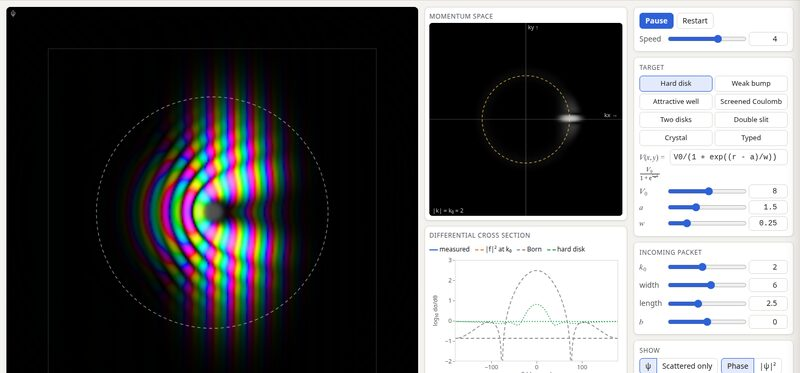
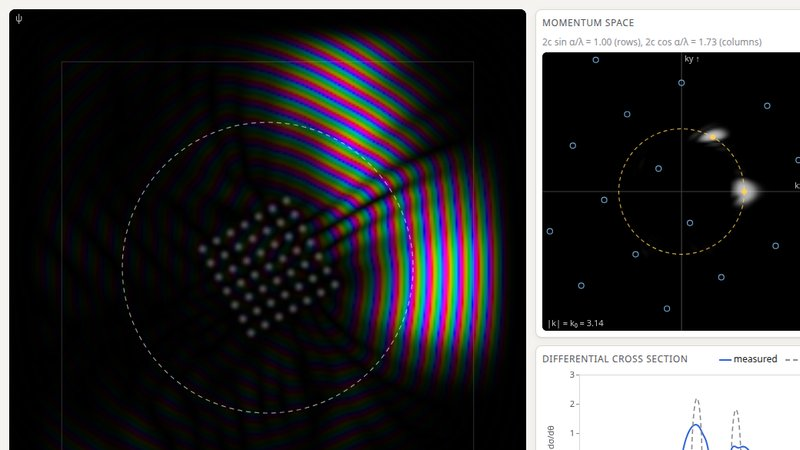
Landing page: 2D scattering's card shows Bragg reflection from the crystal
Claude-Session: https://claude.ai/code/session_01Uf588FyRoRktyvmNzfU8Qe

diff --git a/index.html b/index.html
@@ -59,12 +59,12 @@
       </div>
     </a>
     <a class="card" href="schrodinger2d/">
-      <img src="docs/schrodinger2d.jpg" alt="A wave packet scattering off a disk, with its momentum distribution and the measured cross section">
+      <img src="docs/schrodinger2d.jpg" alt="A wave packet Bragg-reflected by a small crystal, with the reciprocal lattice and the energy circle in momentum space">
       <div class="body">
         <h2>Scattering in 2D</h2>
         <p>Send wave packets at disks, wells, slits and crystals.  The cross section is measured
-        as they pass; compare it with the Born approximation, see the partial waves, and watch
-        the shadow carry out the optical theorem.</p>
+        as they pass; compare it with the Born approximation, see the partial waves, watch
+        the shadow carry out the optical theorem, and turn a crystal until it Bragg-reflects.</p>
         <span class="tag">quantum mechanics · scattering theory</span>
       </div>
     </a>

diff --git a/tools/thumbs.py b/tools/thumbs.py
@@ -16,7 +16,7 @@ from PIL import Image
 
 WIDTH = 1040   # of the page, in CSS pixels, that the thumbnail shows
 
-# demo: (address, seconds to let it run)
+# demo: (address, seconds to let it run[, JavaScript to run first])
 DEMOS = {
     'thinfilms': ('#setup=soap', 3),
     'dispersion': ('#setup=spread', 3),
@@ -27,14 +27,17 @@ DEMOS = {
     'arrays': ('#setup=steer', 3),
     'beams': ('#setup=waist', 3),
     'phasespace': ('#setup=anharmonic&t=8', 3),
+    'schrodinger2d': ('#setup=crystal', 1, '__app.runUntil(0.55 * __app.tEnd)'),
 }
 
 
-def thumb(name, address, wait):
+def thumb(name, address, wait, js=None):
     with Browser(f'{name}/index.html{address}', size=(1400, 900)) as b:
         b.wait("document.readyState === 'complete'")
         b.sleep(1)
         b.key('Escape')
+        if js:
+            b.eval(js)
         b.sleep(wait)
         top = b.eval("(() => { const h = document.querySelector('header.bar'); return h ? h.getBoundingClientRect().bottom : 0; })()")
         png = b.screenshot(f'build/thumb-{name}.png')
